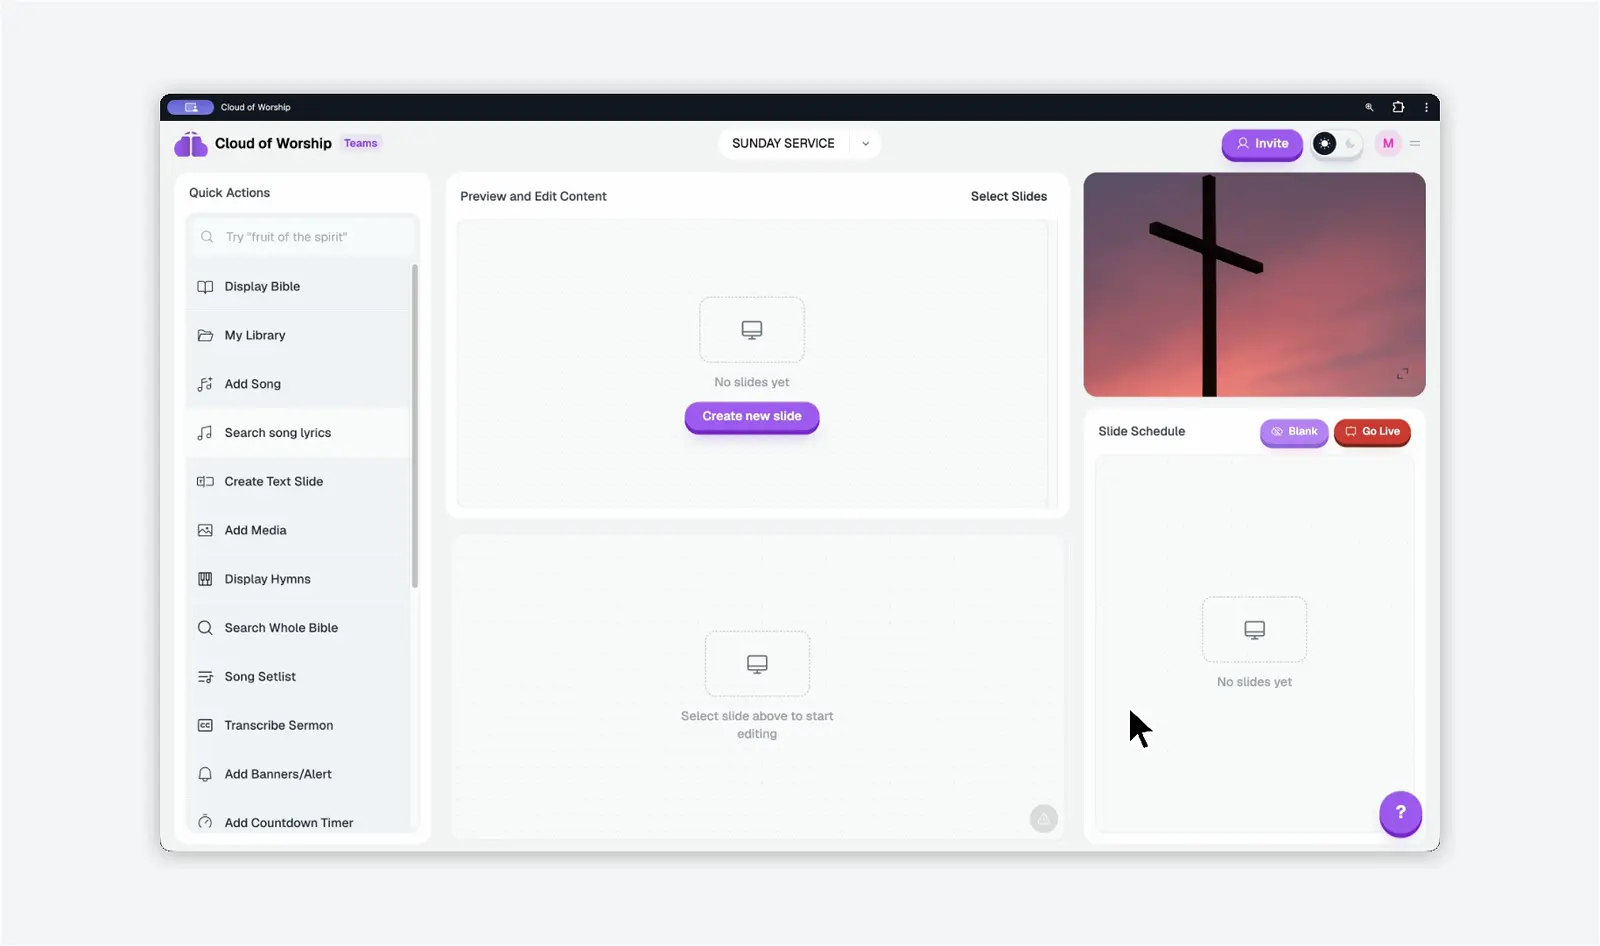
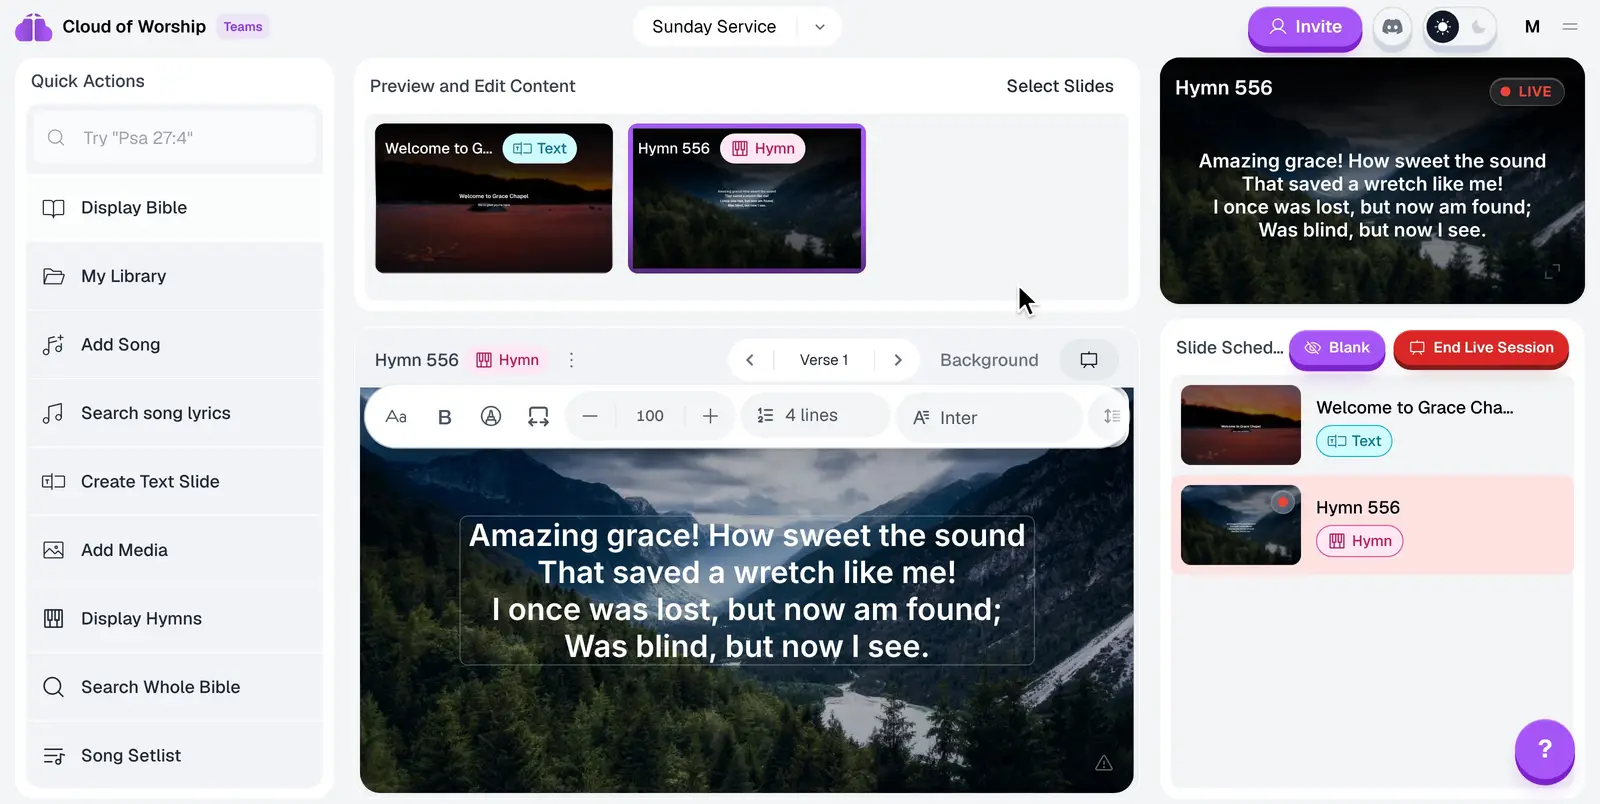
Home features: new "Put scripture on screen in seconds" recording
The Bibles screen gets a new recording of the real app in light mode, edge to
edge with no window chrome: a schedule with a welcome slide and a hymn live,
John 3:16 typed into Quick Actions and put on screen, then Romans 8:28 picked
from the editor's Scripture panel. It zooms in on each step and back out.

The poster is its first frame, the alt text describes the new video, and
VIDEO_VERSION moves to 2 so browsers and the edge fetch the new bibles.mp4.
Upload bibles.mp4 to open/website/features/ in the media bucket before this
ships, or ?v=2 will cache the old file.

diff --git a/app/components/HomeFeatures.vue b/app/components/HomeFeatures.vue
@@ -167,7 +167,7 @@
 // so browsers and the edge fetch it again. Each has a <key>.webp poster from
 // its first frame in public/features/posters/, so it shows before the video
 // loads.
-const VIDEO_VERSION = 1
+const VIDEO_VERSION = 2
 const videoUrl = (key) => `https://media.cloudofworship.com/open/website/features/${key}.mp4?v=${VIDEO_VERSION}`
 const posterUrl = (key) => `/features/posters/${key}.webp`
 
@@ -178,7 +178,7 @@ const tabs = [
     title: ["Put scripture on", "screen in seconds"],
     video: videoUrl("bibles"),
     poster: posterUrl("bibles"),
-    alt: "Searching the Bible in Cloud of Worship and putting a verse on screen",
+    alt: "Typing John 3 16 into Quick Actions in Cloud of Worship to put the verse on screen, then switching to Romans 8:28 from the editor's Scripture picker",
   },
   {
     key: "songs",
